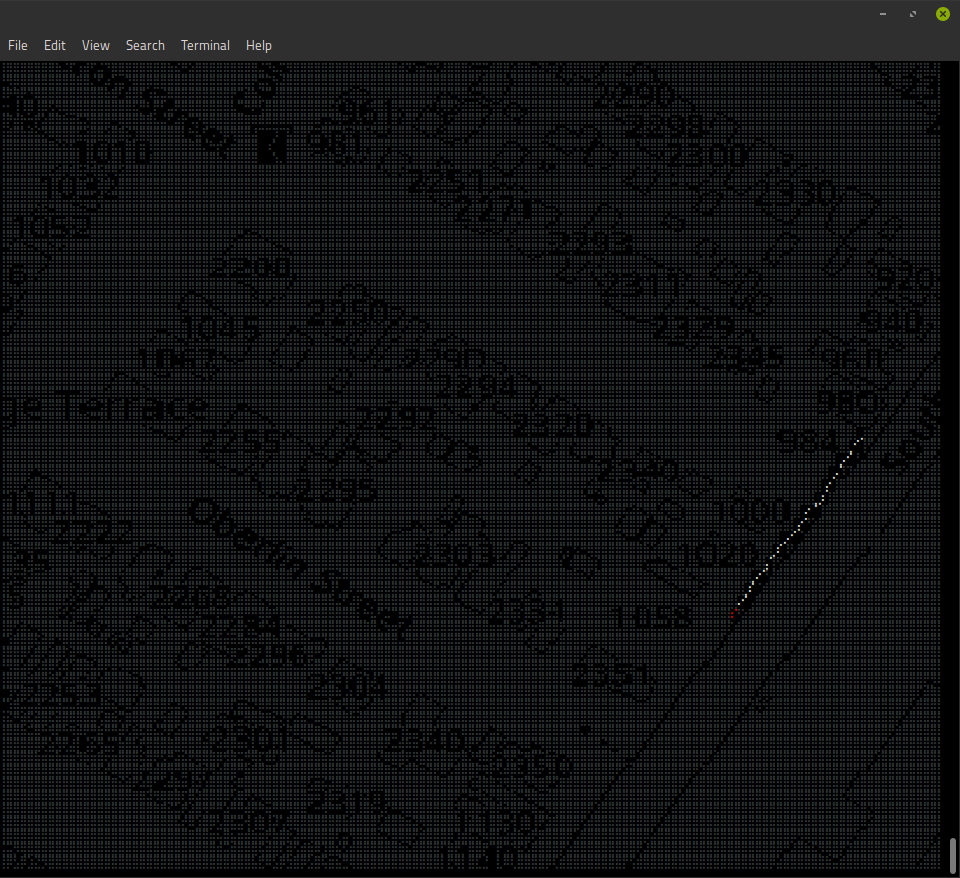
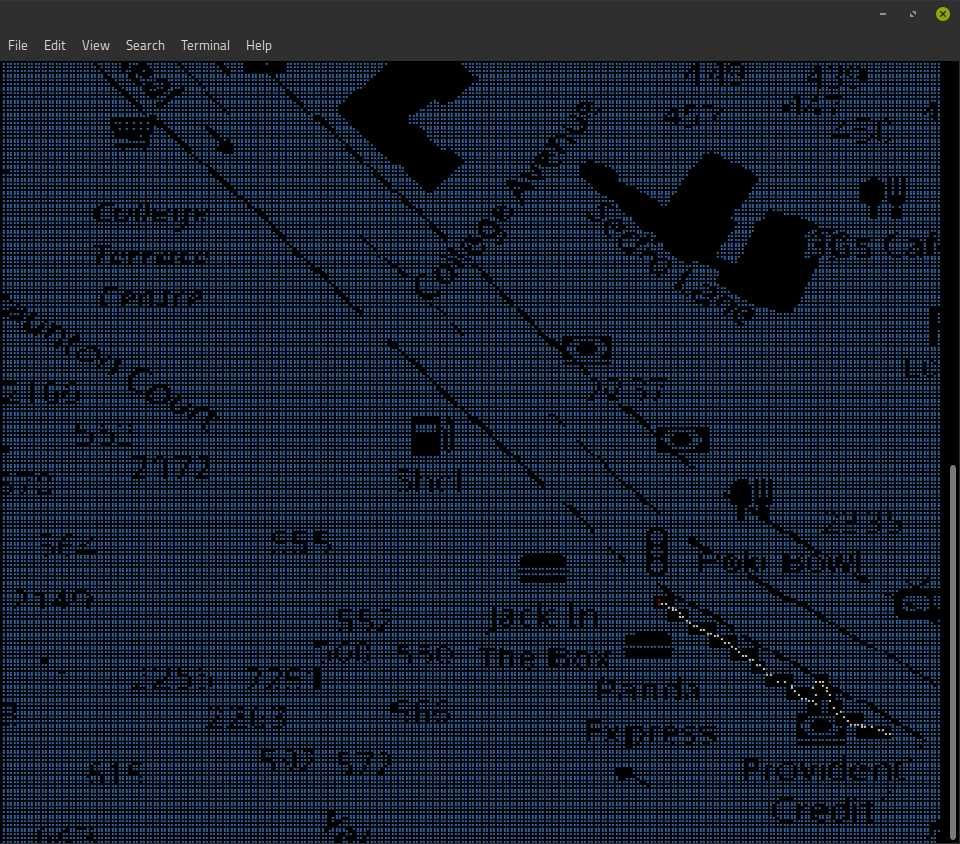
update color

diff --git a/viewers/NavSatFixViewer.py b/viewers/NavSatFixViewer.py
@@ -55,7 +55,7 @@ class LocationPlotter(object):
 
         self.g.clear()
 
-        self.g.set_color(termgraphics.COLOR_BLACK)
+        self.g.set_color(termgraphics.COLOR_BLUE)
 
         img = img.resize((width, height), Image.NEAREST)
         self.g.image(list(img.getdata()), img.width, img.height, (0, 0), image_type = termgraphics.IMAGE_UINT8)
